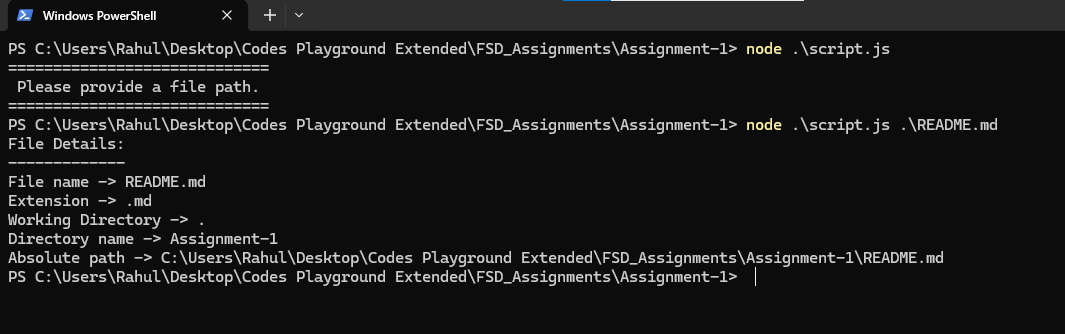
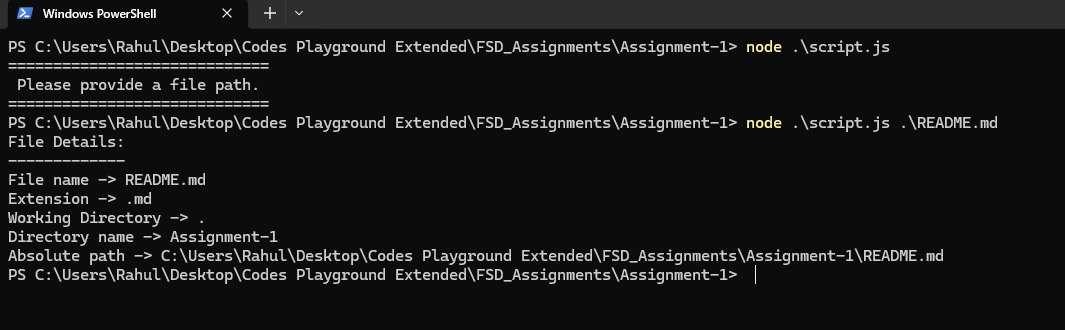
update: Updated README.md for Assignment-1

diff --git a/Assignment-1/README.md b/Assignment-1/README.md
@@ -1,0 +1,126 @@
+# Assignment-1 : Node.js Path Module 
+
+ ## 📌 Question
+
+ Using the Node.js `path` module, create a program that receives a file path and displays:
+
+- File name
+- File extension
+- Directory name
+- Absolute path
+
+ Also explain why using `path.join()` is generally safer than manually concatenating paths using `/`.
+
+---
+
+ ## 💻 Solution
+
+```javascript
+import path from "path"
+
+function fileProps(usrFilePath) {           // Our main Function displaying properties of File
+    console.log('File Details: ')
+    console.log('-------------')
+    console.log(`File name -> ${path.basename(usrFilePath)}`)
+    console.log(`Extension -> ${path.extname(usrFilePath)}`)
+    console.log(`Working Directory -> ${path.dirname(usrFilePath)}`)
+    console.log(`Directory name -> ${path.basename(path.dirname(path.resolve(usrFilePath)))}`)
+    console.log(`Absolute path -> ${path.resolve(usrFilePath)}`)
+}
+
+const filePath = process.argv[2]           // Takes Filename as the Second argument of program running
+
+if (filePath) {                            // If Filename is given, shows its Properties
+    fileProps(filePath)
+} else {                                   // If filePath is not given, shows a Message
+    console.log('=============================')
+    console.log(' Please provide a file path. ')
+    console.log('=============================')
+}
+```
+
+---
+
+ ## ▶ How to Run
+
+ Provide the file path as a command-line argument:
+
+```js
+node script.js <FilePathName>
+```
+
+ ### Example Output
+
+![Screenshot Of Output](./terminal_output.png)
+
+<details>
+<summary>📄 Output in Text</summary>
+
+```text
+File Details:
+-------------
+File name -> example.txt
+Extension -> .txt
+Working Directory -> ./folder
+Directory name -> folder
+Absolute path -> /path/to/current/directory/folder/example.txt
+```
+</details>
+
+
+---
+
+ ## 🔍 Functions Used
+
+ | Function | Description |
+| --- | --- |
+| `path.basename()` | Returns the last part of a path, such as the file name |
+| `path.extname()` | Returns the file extension |
+| `path.dirname()` | Returns the directory portion of a path |
+| `path.resolve()` | Converts a path into an absolute path |
+
+---
+
+ ## 🛡 Why is `path.join()` Safer?
+
+ `path.join()` is safer than manually concatenating paths using `/` because it automatically uses the **correct path separator for the operating system**.
+
+ For example:
+
+```js
+const fullPath = path.join(
+    'folder',
+    'subfolder',
+    '..',
+    'file.txt'
+)
+
+console.log(fullPath)
+```
+
+ `path.join()` also **normalises `..` and duplicate slashes**, making paths more reliable and easier to work with.
+
+ For example:
+
+```bash
+folder/subfolder/../file.txt
+```
+
+ is normalised to:
+
+```bash
+folder/file.txt
+```
+
+ It also handles platform-specific separators:
+
+```bash
+Linux/macOS → folder/file.txt
+Windows     → folder\file.txt
+```
+
+ Therefore, `path.join()` makes path handling **cross-platform, cleaner, and less error-prone**.
+
+---
+
+ > [![Static Badge](https://img.shields.io/badge/Github-Khatarnak_Samarth-red?style=social&logo=github)](https://github.com/KhatarnakSamarth)
